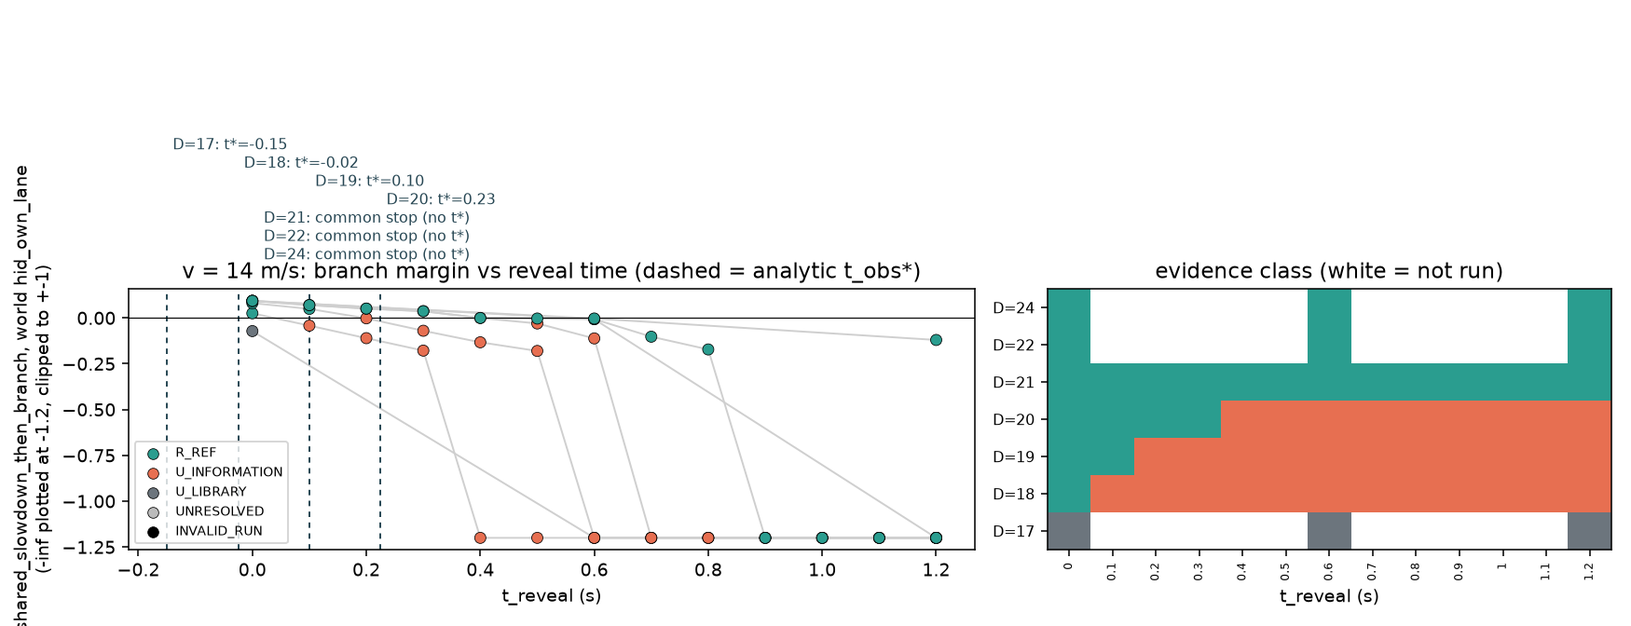
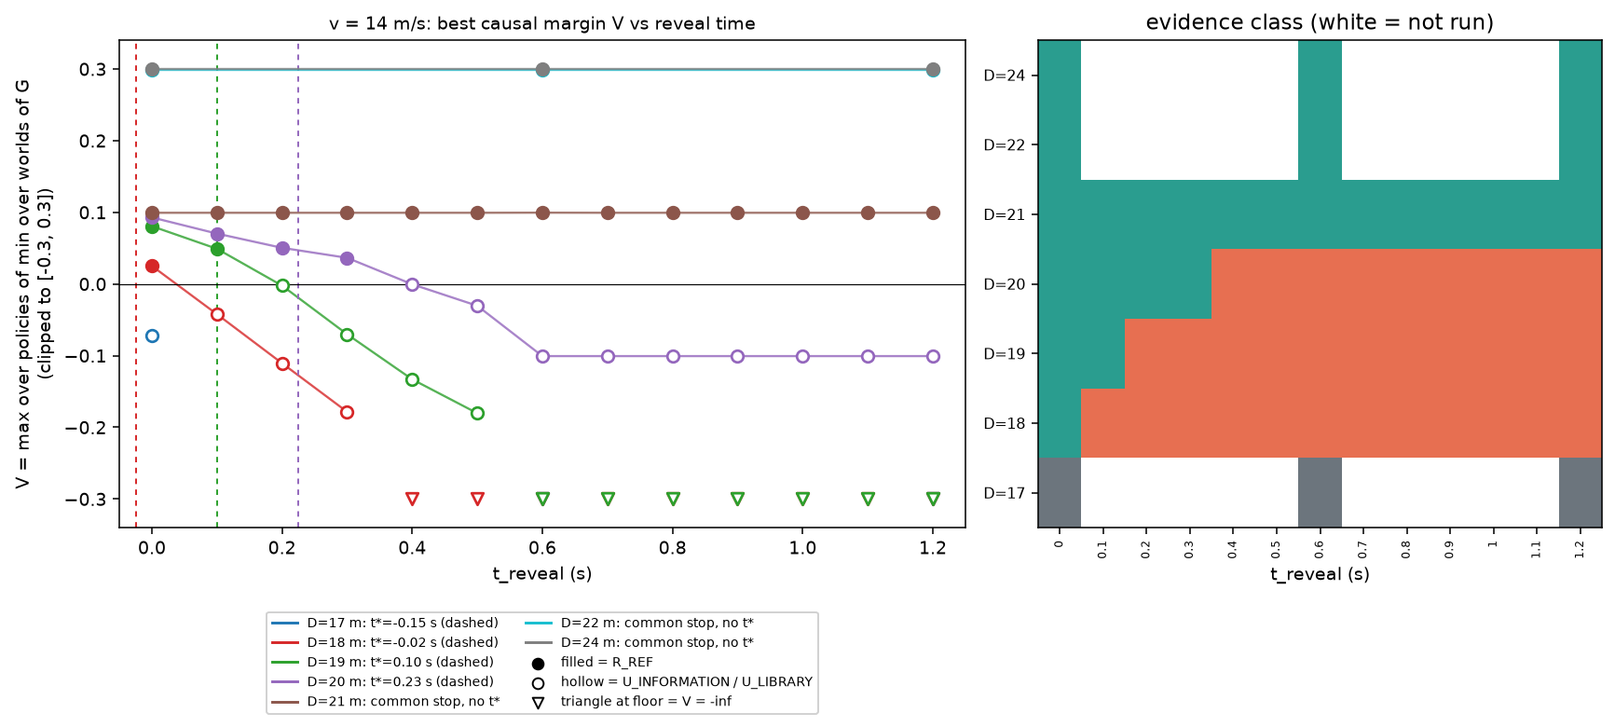
Task 7 fix round 1: aligned sweep tables, redrawn transition figure, history-check threshold, cross-check and RC14 wording, tests

diff --git a/scripts/carla_occlusion.py b/scripts/carla_occlusion.py
@@ -47,6 +47,7 @@ CFG = M.DEFAULT_V2
 TAU = 0.25
 B_CAL, TAU_EFF = CC.B_CAL, CC.TAU_EFF
 TOL_S = 0.25
+DV_TOL = 1e-6          # m/s: pre-reveal ego-speed difference between the two worlds that still counts as the same history
 TAG = "al8lc2"
 SCOPE = "carla_finite_replay"
 gval, fm, mw = CC.gval, CCP.fm, CCP.mw
@@ -88,6 +89,16 @@ def analytic_threshold(D, v, b=B_CAL, tau=TAU_EFF, lc_time=OC.LC_TIME, continuou
     if D >= stop_distance(v, b, tau):
         return None
     return IT.t_obs_star(D, v, tau, b, t_lat(lc_time), p=None if continuous else (v - V_FLOOR) / b)
+
+
+def best_value(r):
+    """V = max over policies of (min over worlds of G) from a record dict (-inf allowed; None entries make that policy unresolved and are skipped)."""
+    vals = []
+    for row in mw(r).values():
+        if any(g is None for g in row):
+            continue
+        vals.append(min(row))
+    return max(vals) if vals else -math.inf
 
 
 def own_world_G(r, policy="shared_slowdown_then_branch"):
@@ -143,8 +154,8 @@ class SpyPolicy(P.BrakeHold):
 
 
 def history_check(factory, theta, t_reveal):
-    """Run the SAME policy in both worlds and compare what it was handed: Obs equal field by field except the ego speed (CARLA is not bit
-    reproducible), objs / lane_w / t_capture / ego_hl exactly equal before the reveal; separated at the reveal."""
+    """Run the SAME policy in both worlds and compare what it was handed before the reveal: objs / lane_w / t_capture / t_available / ego_hl
+    exactly equal; the ego speed is compared separately against DV_TOL (pass/fail); separated at the reveal."""
     ws = OC.worlds(t_reveal, theta)
     hs = []
     for w in ws:
@@ -158,11 +169,12 @@ def history_check(factory, theta, t_reveal):
     n = min(len(hs[0]), len(hs[1]))
     pre = [i for i in range(n) if hs[0][i][0] < t_reveal - 1e-9]
     same = all(hs[0][i][1][-1].objs == hs[1][i][1][-1].objs == [] and hs[0][i][1][-1].lane_w == hs[1][i][1][-1].lane_w
-               and hs[0][i][1][-1].t_capture == hs[1][i][1][-1].t_capture and hs[0][i][1][-1].ego_hl == hs[1][i][1][-1].ego_hl for i in pre)
+               and hs[0][i][1][-1].t_capture == hs[1][i][1][-1].t_capture and hs[0][i][1][-1].t_available == hs[1][i][1][-1].t_available
+               and hs[0][i][1][-1].ego_hl == hs[1][i][1][-1].ego_hl for i in pre)
     dv = max(abs(hs[0][i][1][-1].v - hs[1][i][1][-1].v) for i in pre)
     k = [i for i in range(n) if abs(hs[0][i][0] - t_reveal) < 1e-9][0]
     ob = [hs[j][k][1][-1].objs for j in (0, 1)]
-    return {"n_pre": len(pre), "identical_objs_etc": same, "max_dv_pre": dv, "objs_at_reveal": ob,
+    return {"n_pre": len(pre), "identical_objs_etc": same, "max_dv_pre": dv, "dv_ok": bool(dv < DV_TOL), "objs_at_reveal": ob,
             "separated": ob[0] != ob[1] and len(ob[0]) == len(ob[1]) == 1}
 
 
@@ -266,27 +278,34 @@ def figure(sweeps, path):
     matplotlib.use("Agg")
     import matplotlib.pyplot as plt
     ks = [k for k in sorted(sweeps) if k[0] == 14.0]
-    fig, (a, b) = plt.subplots(1, 2, figsize=(12.5, 4.8), gridspec_kw={"width_ratios": [1.5, 1]})
+    fig, (a, b) = plt.subplots(1, 2, figsize=(12.5, 5.8), gridspec_kw={"width_ratios": [1.5, 1]})
     cmap = {"R_REF": "#2a9d8f", "U_INFORMATION": "#e76f51", "U_LIBRARY": "#6c757d", "UNRESOLVED": "#bbbbbb", "INVALID_RUN": "k"}
-    for i, k in enumerate(ks):
+    Dcol = {k: c for k, c in zip(ks, ["#1f77b4", "#d62728", "#2ca02c", "#9467bd", "#8c564b", "#17becf", "#7f7f7f"])}
+    lo, hi = -0.3, 0.3
+    for k in ks:
         recs = sweeps[k]
         ts = sorted(recs)
-        y = [(-1.2 if gval(own_world_G(recs[t])) in (None, -math.inf) else max(-1.0, min(1.0, gval(own_world_G(recs[t]))))) for t in ts]
-        a.plot(ts, y, "-", color="#cfcfcf", lw=1, zorder=1)
-        a.scatter(ts, y, c=[cmap[recs[t]["evidence_class"]] for t in ts], s=38, zorder=3, edgecolor="k", linewidth=0.4)
+        V = [best_value(recs[t]) for t in ts]
+        fin = [(t, max(lo, min(hi, v))) for t, v in zip(ts, V) if v != -math.inf]
+        inf_t = [t for t, v in zip(ts, V) if v == -math.inf]
+        a.plot([t for t, _ in fin], [y for _, y in fin], "-", color=Dcol[k], lw=1.2, alpha=0.8)
+        for t, v in zip(ts, V):
+            ok = recs[t]["evidence_class"] == "R_REF"
+            a.scatter([t], [lo if v == -math.inf else max(lo, min(hi, v))], marker="v" if v == -math.inf else "o", s=42, zorder=3,
+                      facecolor=Dcol[k] if ok else "white", edgecolor=Dcol[k], linewidth=1.4)
         ts_star = analytic_threshold(k[1], k[0])
-        if ts_star is not None:
-            a.axvline(ts_star, color="#264653", ls=(0, (3, 3)), lw=1)
-            a.text(ts_star + 0.01, 0.92 - 0.1 * i, f"D={k[1]:g}: t*={ts_star:.2f}", fontsize=8, color="#264653")
-        else:
-            a.text(0.02, 0.92 - 0.1 * i, f"D={k[1]:g}: common stop (no t*)", fontsize=8, color="#264653")
+        a.axvline(ts_star if ts_star is not None else np.nan, color=Dcol[k], ls=(0, (3, 3)), lw=1)
+        a.plot([], [], color=Dcol[k], lw=1.5, label=f"D={k[1]:g} m: " + (f"t*={ts_star:.2f} s (dashed)" if ts_star is not None else "common stop, no t*"))
     a.axhline(0, color="k", lw=0.6)
+    a.set_ylim(lo - 0.04, hi + 0.04)
     a.set_xlabel("t_reveal (s)")
-    a.set_ylabel("G of shared_slowdown_then_branch, world hid_own_lane\n(-inf plotted at -1.2, clipped to +-1)")
-    a.set_title("v = 14 m/s: branch margin vs reveal time (dashed = analytic t_obs*)")
-    for e, c in cmap.items():
-        a.scatter([], [], c=c, edgecolor="k", linewidth=0.4, label=e)
-    a.legend(fontsize=7, loc="lower left")
+    a.set_ylabel("V = max over policies of min over worlds of G\n(clipped to [-0.3, 0.3])")
+    a.set_title("v = 14 m/s: best causal margin V vs reveal time", fontsize=10)
+    a.scatter([], [], marker="o", facecolor="k", edgecolor="k", label="filled = R_REF")
+    a.scatter([], [], marker="o", facecolor="white", edgecolor="k", label="hollow = U_INFORMATION / U_LIBRARY")
+    a.scatter([], [], marker="v", facecolor="white", edgecolor="k", label="triangle at floor = V = -inf")
+    a.set_xlim(-0.05, 1.25)
+    a.legend(fontsize=7, loc="upper center", bbox_to_anchor=(0.5, -0.16), ncol=2, framealpha=0.9)
     ds = [k for k in ks]
     allt = sorted({t for k in ks for t in sweeps[k]})
     img = np.full((len(ds), len(allt)), np.nan)
@@ -303,11 +322,44 @@ def figure(sweeps, path):
     b.set_xlabel("t_reveal (s)")
     b.set_title("evidence class (white = not run)")
     fig.tight_layout()
-    fig.savefig(path, dpi=140)
+    fig.savefig(path, dpi=140, bbox_inches="tight")
     plt.close(fig)
 
 
 # ----------------------------------------------------------------------------- report
+def sweep_table(ks, sweeps, times):
+    """Markdown lines of one sweep table; every row has exactly as many cells as the header."""
+    hdr = ["D"] + [f"{t:g}" for t in times] + ["measured bracket", "analytic t* (policy as run)", "analytic t* (sup over prefixes)", "midpoint - t*", "within 0.25 s"]
+    out = ["| " + " | ".join(hdr) + " |", "|" + "---|" * len(hdr)]
+    for k in ks:
+        tr = transition(sweeps[k])
+        ts = analytic_threshold(k[1], k[0])
+        tsup = analytic_threshold(k[1], k[0], continuous=True)
+        cc = crosscheck(tr, ts)
+        cells = [code(sweeps[k][t]) if t in sweeps[k] else "" for t in times]
+        row = [f"{k[1]:g}"] + cells + [str(tr) if tr else "-", "none (common stop)" if ts is None else f"{ts:.3f}", "-" if tsup is None else f"{tsup:.3f}",
+                                       "-" if cc["diff"] is None else f"{cc['diff']:+.3f}", str(cc["ok"]) if cc["ok"] is not None else cc["note"]]
+        out.append("| " + " | ".join(row) + " |")
+    return out
+
+
+def crosscheck_stats(sweeps, keys):
+    """Differences (midpoint - t*) of the scenes with a bracket and a finite t*, and how many have t* strictly before the bracket's lower edge."""
+    rows = []
+    for k in keys:
+        tr, ts = transition(sweeps[k]), analytic_threshold(k[1], k[0])
+        if tr and ts is not None:
+            rows.append((k, 0.5 * (tr[0] + tr[1]) - ts, ts < tr[0]))
+    return rows
+
+
+def blind_spread(sweeps, k):
+    """Range of the blind fixed_left policy's own-world G over the reveal sweep (it ignores observations, so this is run-to-run spread)."""
+    g = [gval(mw(r)["fixed_left"][1]) for r in sweeps[k].values()]
+    g = [x for x in g if x is not None and x != -math.inf]
+    return (min(g), max(g)) if g else None
+
+
 def code(r):
     return {"R_REF": "R", "U_INFORMATION": "I", "U_LIBRARY": "L", "UNRESOLVED": "?", "INVALID_RUN": "X"}.get(r["evidence_class"], "?")
 
@@ -342,17 +394,23 @@ def report(ctx, sweeps, rc14, aud, hist, fig_path):
     w("**info_tree reconciliation.** `reference/info_tree.py` has two LATERAL corridors that both need T_lat. On the two-lane site the right corridor is the ego's own lane and needs no lateral move, so the matrix is "
       "`build_matrix_two_lane` (added): world A/hid_left_lane has stop/stay/observe succeed (+1) and blind_L fail; world B/hid_own_lane has the same lateral slack expression as before. "
       "The binding constraint is the lateral world, so the analytic threshold is unchanged and is also given in closed form, `t_obs_star = t_arr_max - tau - T_lat` (t_arr_max = arrival time under continuous braking, since the branch keeps braking). "
-      "The mock test checks the closed form against both discrete trees.\n")
+      "The mock test checks the closed form against both discrete trees. "
+      f"`p = (v - {V_FLOOR:g})/b` is the braking-prefix duration of the policy as run: it brakes until the ego speed is below {V_FLOOR:g} m/s and then holds that speed. Reason: stopping (or nearly stopping) in the middle of the steered "
+      "lane change leaves residual yaw (the lane_follow terminal test fails) and the time-parametrised quintic tracker overshoots the road edge at low speed, so the change is completed at >= 8 m/s. "
+      "The sweep tables therefore give two analytic columns: the policy as run, and the supremum over prefixes (continuous braking). The latter is '-' for D = 20 at v = 14: v tau_eff + v^2/(2 b_cal) = 19.98 m < 20 m, so under continuous braking the ego "
+      "stops just short of the plane, inside the 1 m reserve; the arrival time is infinite and no finite supremum exists. That is a stop that violates the reserve, not a valid common stop (the common-stop boundary is D >= 20.98 m)."
+      "\n")
     lt = t_lat()
     w(f"**Analytic anchors.** b_cal = {B_CAL} m/s^2, tau_eff = {TAU_EFF} s (0.25 s configured, quantised to 5 ticks, + 0.05 s onset), T_lat = {lt:.3f} s (quintic, lc_time {OC.LC_TIME:g}, to a lateral displacement of "
-      f"{OC.EGO_HW + OC.HID_HW + CFG.reserve_m:.1f} m = hw_ego + hw_hid + reserve of the 3.5 m lane width). Cross-check tolerance {TOL_S} s was declared in the script header.\n")
+      f"{OC.EGO_HW + OC.HID_HW + CFG.reserve_m:.1f} m = hw_ego + hw_hid + reserve of the 3.5 m lane width). tau_plan = 0 and a time reserve of 0 are used in t_obs* (the 1 m spatial reserve is folded into the 2.9 m lateral criterion; the reveal is delivered on the same tick). "
+      f"The {TOL_S} s cross-check tolerance is declared in this script's header docstring; commit history cannot verify that it was set before the run, and the reader should take that as stated, not proven.\n")
     w("**Plant caveats.** `hid` is static and re-placed from the measured ego bumper, so the declared gap D is exact; the ego starts on its declared speed (measured t0 speeds are in the audit traces below). "
       "No moving non-ego actor exists in these scenes, so the warm-up speed shortfall of moving actors (3-5 % low) does not apply. CARLA's brake model locks the wheels at the end of a stop (see Task 6); it only affects a_comb, which is not used here. "
       "The branch policy's braking is the calibrated decel target 6.19 m/s^2 (b_cal 6.211).\n")
     # ---- observation contract
     w("## Observation contract on CARLA\n")
     w(f"Same policy (`spy`, full brake) in both worlds, D = {hist['D']:g}, v = {hist['v']:g}, t_reveal = {hist['t']:g}: {hist['n_pre']} pre-reveal frames per world; objs / lane_w / t_capture / ego_hl identical in all of them "
-      f"and objs empty: **{hist['identical_objs_etc']}**; max |ego speed difference| between the worlds before the reveal {hist['max_dv_pre']:.4f} m/s (CARLA is not bit-reproducible, and the ego trajectory is identical only up to that); "
+      f"and objs empty: **{hist['identical_objs_etc']}**; t_available also compared; max |ego speed difference| between the worlds before the reveal {hist['max_dv_pre']:.2e} m/s, threshold {DV_TOL:g}: **{'PASS' if hist['dv_ok'] else 'FAIL'}**; "
       f"at the reveal tick the delivered objects are {hist['objs_at_reveal'][0]} (hid_left_lane) vs {hist['objs_at_reveal'][1]} (hid_own_lane): separated {hist['separated']}. "
       "The mock unit tests assert the same with exact equality of the whole Obs sequence and run the leakage check (no id / name / colour / blueprint / world name / absolute coordinate of the hidden vehicle in policy inputs before the reveal).\n")
     # ---- sweep tables
@@ -362,16 +420,20 @@ def report(ctx, sweeps, rc14, aud, hist, fig_path):
         ks = [k for k in sorted(sweeps) if k[0] == v]
         times = sorted({t for k in ks for t in sweeps[k]})
         w(f"v = {v:g} m/s, D_stop+c (analytic, b_cal, tau_eff) = {v * TAU_EFF + v * v / (2 * B_CAL) + CFG.reserve_m:.2f} m\n")
-        w("| D | " + " | ".join(f"{t:g}" for t in times) + " | measured bracket | analytic t_obs* | midpoint - t* | within 0.25 s |\n|---|" + "---|" * (len(times) + 4))
-        for k in ks:
-            tr = transition(sweeps[k])
-            ts = analytic_threshold(k[1], k[0])
-            cc = crosscheck(tr, ts)
-            cells = [code(sweeps[k][t]) if t in sweeps[k] else "" for t in times]
-            tsup = analytic_threshold(k[1], k[0], continuous=True)
-            w(f"| {k[1]:g} | " + " | ".join(cells) + f" | {tr if tr else '-'} | {'none (common stop)' if ts is None else f'{ts:.3f}'} | {'-' if tsup is None else f'{tsup:.3f}'} | "
-              f"{'-' if cc['diff'] is None else f'{cc['diff']:+.3f}'} | {cc['ok'] if cc['ok'] is not None else cc['note']} |")
+        L.extend(sweep_table(ks, sweeps, times))
         w("")
+    rows_ = crosscheck_stats(sweeps, sorted(sweeps))
+    if rows_:
+        ds_ = [d for _, d, _ in rows_]
+        w(f"**Cross-check reading.** All {len(ds_)} bracket midpoints differ from the policy-matched analytic t* by {', '.join(f'{d:+.3f}' for d in ds_)} s: "
+          f"{'all positive' if all(d > 0 for d in ds_) else 'mixed sign'}, mean {sum(ds_) / len(ds_):+.3f} s, max {max(ds_):+.3f} s.  In {sum(e for _, _, e in rows_)} of {len(rows_)} the analytic value lies strictly before the bracket's lower edge "
+          "(i.e. earlier than the last R_REF reveal), so the analytic value is a conservative one-sided bound with a bias of about one to two reveal-grid steps, not a close match.  The bias comes from the criterion: it demands 2.9 m of lateral displacement at the plane, "
+          "but the audited run clears the hidden vehicle with G >= 0 at 2.36 m of displacement (box-corner geometry; the corner distance, not the centre offset, sets the clearance).\n")
+    sp_ = {f"v{k[0]:g} D{k[1]:g}": blind_spread(sweeps, k) for k in sorted(sweeps) if len(sweeps[k]) > 3}
+    w("**Run-to-run spread.** `fixed_left` ignores observations, so its own-world G should not depend on the reveal time; its range over the sweep (min, max) is "
+      + "; ".join(f"{n}: ({a:.3f}, {b:.3f})" for n, r in sp_.items() if r for a, b in [r]) + ". "
+      "The brackets therefore carry about one reveal-grid step (0.1 s, 0.2 s at v = 18) of noise in addition to the 0.1 s resolution.\n")
+    w("**Note on case ids.** The records carry case_id RC10 for t_reveal <= 0.5 s and RC11 otherwise (assigned by reveal time before the run). It is a bookkeeping name, not a verdict: the evidence class is the label.\n")
     w("Full margins (G, `hid_left_lane/hid_own_lane`) per record:\n")
     w("| v | D | t_reveal | evidence | margins |\n|---|---|---|---|---|")
     for k in sorted(sweeps):
@@ -399,13 +461,13 @@ def report(ctx, sweeps, rc14, aud, hist, fig_path):
     # ---- RC14
     w("## RC14: current-view aliasing resolved by past observations\n")
     w(f"Scene v {RC14_SCENE[0]:g}, D {RC14_SCENE[1]:g}. Both worlds show `hid` from t = 0 and occlude it again from `t_forget`; they differ only in where it was seen (left lane vs own lane). "
-      "After `t_forget` the delivered current frame is identical (no objects); the earlier frames differ, and so do the margin profiles. Library adds `branch_current_frame_only` (decides from the current frame alone, forgets the vehicle when it is occluded). "
+      "After `t_forget` the delivered current frame is identical (no objects) while the earlier frames differ. `t_forget` is the sweep parameter (the time since the last observation at decision time t is t - t_forget; there is no separate field). Library adds `branch_current_frame_only` (decides from the current frame alone, forgets the vehicle when it is occluded). "
       "G cells read `seen_left_then_occluded/seen_own_then_occluded`.\n")
-    w("| t_forget | evidence | margins | profiles differ | memory policy G >= eps in both | current-frame-only policy refuted |\n|---|---|---|---|---|---|")
+    w("| t_forget | evidence | margins | memory policy G >= eps in both worlds | current-frame-only policy refuted in one world |\n|---|---|---|---|---|")
     for tf, r in sorted(rc14.items()):
         m = mw(r)
         cols = [[m[p][j] for p in r["policies"]] for j in (0, 1)]
-        w(f"| {tf:g} | {r['evidence_class']} | {CCP.mrows(r)} | {cols[0] != cols[1]} | {CCP.all_ok(m['shared_slowdown_then_branch'])} | {CCP.any_bad(m['branch_current_frame_only'])} |")
+        w(f"| {tf:g} | {r['evidence_class']} | {CCP.mrows(r)} | {CCP.all_ok(m['shared_slowdown_then_branch'])} | {CCP.any_bad(m['branch_current_frame_only'])} |")
     w("")
     # ---- audits
     w("## Audited transition traces\n")

diff --git a/tests/test_sim_occlusion.py b/tests/test_sim_occlusion.py
@@ -198,3 +198,44 @@ def test_rc14_history_conditioned_profiles_differ_and_memory_is_needed():
     assert col(0) != col(1)                                                 # different profiles for the same current frame
     assert all(g >= CFG.eps for g in r["shared_slowdown_then_branch"]) and rec.evidence_class == "R_REF"
     assert min(r["branch_current_frame_only"]) < CFG.eps                    # the current-frame-only policy forgets the vehicle and fails
+
+
+# ----------------------------------------------------------------------------- report helpers (fix round 1)
+def _fake(ev, g_own):
+    pol = ["stop_in_place", "fixed_left", "fixed_right", "shared_slowdown_then_branch"]
+    inf = "-inf"
+    return {"evidence_class": ev, "policies": pol,
+            "R_raw": [[0.1, inf], [inf, 0.09], [0.1, inf], [0.1, g_own]]}
+
+
+def _fake_sweeps():
+    sw = {}
+    for D, cut in ((18.0, 1), (19.0, 2), (21.0, 99)):
+        sw[(14.0, D)] = {round(0.1 * i, 2): (_fake("R_REF", 0.05) if i < cut else _fake("U_INFORMATION", "-inf")) for i in range(6)}
+    return sw
+
+
+def test_sweep_table_columns_align_with_header():
+    sw = _fake_sweeps()
+    times = sorted(sw[(14.0, 18.0)])
+    lines = CO.sweep_table(sorted(sw), sw, times)
+    n = lines[0].count("|")
+    assert all(l.count("|") == n for l in lines)                       # header, separator and every row have the same number of cells
+    assert "analytic t* (sup over prefixes)" in lines[0] and "analytic t* (policy as run)" in lines[0]
+    d21 = [l for l in lines if l.startswith("| 21 ")][0]
+    assert "none (common stop)" in d21
+
+
+def test_transition_figure_renders_and_crosscheck_stats(tmp_path):
+    sw = _fake_sweeps()
+    out = str(tmp_path / "f.png")
+    CO.figure(sw, out)
+    assert os.path.getsize(out) > 5000
+    assert abs(CO.best_value(_fake("R_REF", 0.05)) - 0.05) < 1e-9 and CO.best_value(_fake("U_INFORMATION", "-inf")) == -float("inf")
+    rows = CO.crosscheck_stats(sw, sorted(sw))
+    assert [k[1] for k, _, _ in rows] == [18.0, 19.0]                  # D=21 has no finite analytic t*
+    assert CO.blind_spread(sw, (14.0, 18.0)) == (0.09, 0.09)
+
+
+def test_history_check_threshold_constant():
+    assert 0 < CO.DV_TOL <= 1e-5

diff --git a/tests/test_reference.py b/tests/test_reference.py
@@ -82,3 +82,11 @@ def test_info_tree_reveal_threshold_is_analytic():
 def test_info_tree_physically_impossible_is_not_information_infeasible():
     assert T.label_scene(10.0, 0.0)["evidence"] == U_LIBRARY               # no world has a witness
     assert T.label_scene(40.0, 5.0)["evidence"] == R_REF                   # a common stop succeeds regardless of reveal time
+
+
+def test_t_obs_star_prefix_argument_and_common_stop():
+    D, v, tau, b, T_LAT = 19.0, 14.0, 0.3, 6.211, 1.3875
+    t_sup = T.t_obs_star(D, v, tau, b, T_LAT)
+    t_p = T.t_obs_star(D, v, tau, b, T_LAT, p=(v - 8.0) / b)
+    assert t_p < t_sup                                     # a shorter prefix arrives earlier, so the gate closes earlier
+    assert T.t_obs_star(20.0, v, tau, b, T_LAT) is None      # braking reaches a stop before the plane: no finite supremum

diff --git a/mining/cases/occlusion.py b/mining/cases/occlusion.py
@@ -68,7 +68,7 @@ def library(lc_time=LC_TIME):
 
 
 def rc14_worlds(t_forget, theta):
-    """Both hid placements are SEEN from t = 0 and occluded again from t_forget on (time_since_last_observation = t - t_forget)."""
+    """Both hid placements are SEEN from t = 0 and occluded again from t_forget on (t_forget is the sweep parameter; the time since the last observation at decision time t is t - t_forget, there is no separate field)."""
     kw = {"reveal": {HID: 0.0}, "forget": {HID: t_forget}}
     return [{"name": "seen_left_then_occluded", "actors": {}, "spawn": _spawn(theta, LEFT_LAT), **kw},
             {"name": "seen_own_then_occluded", "actors": {}, "spawn": _spawn(theta, OWN_LAT), **kw}]

diff --git a/mining/results/carla/occlusion.md b/mining/results/carla/occlusion.md
@@ -4,15 +4,15 @@ Physics profile `pp_381b4c6e55`, decel target 6.19, eps = 0.0, reserve c = 1.0 m
 
 **Site and mapping.** The custom 2-lane straight (`straight_2lane`, no map change). One STOPPED hidden vehicle `hid` is D m ahead of the ego (bumper gap) in exactly one of the two escape corridors: the ego's own lane (lat 0, the RIGHT lane; corridor = keep lane / stop in lane = info_tree `fixed_right`, world 'blocks RIGHT') or the adjacent LEFT lane (lat -3.5; corridor = change lane = `fixed_left`, world 'blocks LEFT'). Worlds: `hid_left_lane` (staying or stopping is safe; a left change collides) and `hid_own_lane` (only a braking left change works; D < stopping distance so stopping cannot). The vehicle is spawned in CARLA in both worlds (ground truth, static, exact placement), but the ObservationFeed withholds it until `t_reveal`; there is no CARLA occluder. Library: `stop_in_place` (full brake, hold), `fixed_left` (brake and change left at once), `fixed_right` (keep lane at speed), `shared_slowdown_then_branch` (full brake in lane until the object is delivered; then own lane -> change left while still braking, left lane -> keep lane braking; the branch is latched from the delivered history). G cells read `hid_left_lane/hid_own_lane`.
 
-**info_tree reconciliation.** `reference/info_tree.py` has two LATERAL corridors that both need T_lat. On the two-lane site the right corridor is the ego's own lane and needs no lateral move, so the matrix is `build_matrix_two_lane` (added): world A/hid_left_lane has stop/stay/observe succeed (+1) and blind_L fail; world B/hid_own_lane has the same lateral slack expression as before. The binding constraint is the lateral world, so the analytic threshold is unchanged and is also given in closed form, `t_obs_star = t_arr_max - tau - T_lat` (t_arr_max = arrival time under continuous braking, since the branch keeps braking). The mock test checks the closed form against both discrete trees.
+**info_tree reconciliation.** `reference/info_tree.py` has two LATERAL corridors that both need T_lat. On the two-lane site the right corridor is the ego's own lane and needs no lateral move, so the matrix is `build_matrix_two_lane` (added): world A/hid_left_lane has stop/stay/observe succeed (+1) and blind_L fail; world B/hid_own_lane has the same lateral slack expression as before. The binding constraint is the lateral world, so the analytic threshold is unchanged and is also given in closed form, `t_obs_star = t_arr_max - tau - T_lat` (t_arr_max = arrival time under continuous braking, since the branch keeps braking). The mock test checks the closed form against both discrete trees. `p = (v - 8)/b` is the braking-prefix duration of the policy as run: it brakes until the ego speed is below 8 m/s and then holds that speed. Reason: stopping (or nearly stopping) in the middle of the steered lane change leaves residual yaw (the lane_follow terminal test fails) and the time-parametrised quintic tracker overshoots the road edge at low speed, so the change is completed at >= 8 m/s. The sweep tables therefore give two analytic columns: the policy as run, and the supremum over prefixes (continuous braking). The latter is '-' for D = 20 at v = 14: v tau_eff + v^2/(2 b_cal) = 19.98 m < 20 m, so under continuous braking the ego stops just short of the plane, inside the 1 m reserve; the arrival time is infinite and no finite supremum exists. That is a stop that violates the reserve, not a valid common stop (the common-stop boundary is D >= 20.98 m).
 
-**Analytic anchors.** b_cal = 6.211 m/s^2, tau_eff = 0.3 s (0.25 s configured, quantised to 5 ticks, + 0.05 s onset), T_lat = 1.388 s (quintic, lc_time 2, to a lateral displacement of 2.9 m = hw_ego + hw_hid + reserve of the 3.5 m lane width). Cross-check tolerance 0.25 s was declared in the script header.
+**Analytic anchors.** b_cal = 6.211 m/s^2, tau_eff = 0.3 s (0.25 s configured, quantised to 5 ticks, + 0.05 s onset), T_lat = 1.388 s (quintic, lc_time 2, to a lateral displacement of 2.9 m = hw_ego + hw_hid + reserve of the 3.5 m lane width). tau_plan = 0 and a time reserve of 0 are used in t_obs* (the 1 m spatial reserve is folded into the 2.9 m lateral criterion; the reveal is delivered on the same tick). The 0.25 s cross-check tolerance is declared in this script's header docstring; commit history cannot verify that it was set before the run, and the reader should take that as stated, not proven.
 
 **Plant caveats.** `hid` is static and re-placed from the measured ego bumper, so the declared gap D is exact; the ego starts on its declared speed (measured t0 speeds are in the audit traces below). No moving non-ego actor exists in these scenes, so the warm-up speed shortfall of moving actors (3-5 % low) does not apply. CARLA's brake model locks the wheels at the end of a stop (see Task 6); it only affects a_comb, which is not used here. The branch policy's braking is the calibrated decel target 6.19 m/s^2 (b_cal 6.211).
 
 ## Observation contract on CARLA
 
-Same policy (`spy`, full brake) in both worlds, D = 19, v = 14, t_reveal = 0.6: 12 pre-reveal frames per world; objs / lane_w / t_capture / ego_hl identical in all of them and objs empty: **True**; max |ego speed difference| between the worlds before the reveal 0.0000 m/s (CARLA is not bit-reproducible, and the ego trajectory is identical only up to that); at the reveal tick the delivered objects are [{'dx': 15.06390380859375, 'dlat': -3.49965763092041, 'dv': -12.439548928543635, 'hl': 1.852684736251831, 'hw': 0.8943392634391785}] (hid_left_lane) vs [{'dx': 15.06390380859375, 'dlat': 0.00034236907958984375, 'dv': -12.439548928543635, 'hl': 1.852684736251831, 'hw': 0.8943392634391785}] (hid_own_lane): separated True. The mock unit tests assert the same with exact equality of the whole Obs sequence and run the leakage check (no id / name / colour / blueprint / world name / absolute coordinate of the hidden vehicle in policy inputs before the reveal).
+Same policy (`spy`, full brake) in both worlds, D = 19, v = 14, t_reveal = 0.6: 12 pre-reveal frames per world; objs / lane_w / t_capture / ego_hl identical in all of them and objs empty: **True**; t_available also compared; max |ego speed difference| between the worlds before the reveal 0.00e+00 m/s, threshold 1e-06: **PASS**; at the reveal tick the delivered objects are [{'dx': 15.06390380859375, 'dlat': -3.49965763092041, 'dv': -12.439548928543635, 'hl': 1.852684736251831, 'hw': 0.8943392634391785}] (hid_left_lane) vs [{'dx': 15.06390380859375, 'dlat': 0.00034236907958984375, 'dv': -12.439548928543635, 'hl': 1.852684736251831, 'hw': 0.8943392634391785}] (hid_own_lane): separated True. The mock unit tests assert the same with exact equality of the whole Obs sequence and run the leakage check (no id / name / colour / blueprint / world name / absolute coordinate of the hidden vehicle in policy inputs before the reveal).
 
 ## Reveal-time sweep (RC10 -> RC11)
 
@@ -20,8 +20,8 @@ Evidence class per reveal time (R = R_REF, I = U_INFORMATION, L = U_LIBRARY, ? =
 
 v = 14 m/s, D_stop+c (analytic, b_cal, tau_eff) = 20.98 m
 
-| D | 0 | 0.1 | 0.2 | 0.3 | 0.4 | 0.5 | 0.6 | 0.7 | 0.8 | 0.9 | 1 | 1.1 | 1.2 | measured bracket | analytic t_obs* | midpoint - t* | within 0.25 s |
-|---|---|---|---|---|---|---|---|---|---|---|---|---|---|---|---|---|---|
+| D | 0 | 0.1 | 0.2 | 0.3 | 0.4 | 0.5 | 0.6 | 0.7 | 0.8 | 0.9 | 1 | 1.1 | 1.2 | measured bracket | analytic t* (policy as run) | analytic t* (sup over prefixes) | midpoint - t* | within 0.25 s |
+|---|---|---|---|---|---|---|---|---|---|---|---|---|---|---|---|---|---|---|
 | 17 | L |  |  |  |  |  | L |  |  |  |  |  | L | - | -0.150 | -0.113 | - | no transition inside the sweep |
 | 18 | R | I | I | I | I | I | I | I | I | I | I | I | I | (0.0, 0.1) | -0.025 | 0.068 | +0.075 | True |
 | 19 | R | R | I | I | I | I | I | I | I | I | I | I | I | (0.1, 0.2) | 0.100 | 0.305 | +0.050 | True |
@@ -32,11 +32,17 @@ v = 14 m/s, D_stop+c (analytic, b_cal, tau_eff) = 20.98 m
 
 v = 18 m/s, D_stop+c (analytic, b_cal, tau_eff) = 32.48 m
 
-| D | 0 | 0.2 | 0.4 | 0.6 | 0.8 | 1 | 1.2 | measured bracket | analytic t_obs* | midpoint - t* | within 0.25 s |
-|---|---|---|---|---|---|---|---|---|---|---|---|
+| D | 0 | 0.2 | 0.4 | 0.6 | 0.8 | 1 | 1.2 | measured bracket | analytic t* (policy as run) | analytic t* (sup over prefixes) | midpoint - t* | within 0.25 s |
+|---|---|---|---|---|---|---|---|---|---|---|---|---|
 | 26 | R | R | I | I | I | I | I | (0.2, 0.4) | 0.182 | 0.182 | +0.118 | True |
 | 28 | R | R | R | I | I | I | I | (0.4, 0.6) | 0.431 | 0.452 | +0.069 | True |
 | 30 | R | R | R | R | R | I | I | (0.8, 1.0) | 0.681 | 0.820 | +0.219 | True |
+
+**Cross-check reading.** All 6 bracket midpoints differ from the policy-matched analytic t* by +0.075, +0.050, +0.125, +0.118, +0.069, +0.219 s: all positive, mean +0.109 s, max +0.219 s.  In 4 of 6 the analytic value lies strictly before the bracket's lower edge (i.e. earlier than the last R_REF reveal), so the analytic value is a conservative one-sided bound with a bias of about one to two reveal-grid steps, not a close match.  The bias comes from the criterion: it demands 2.9 m of lateral displacement at the plane, but the audited run clears the hidden vehicle with G >= 0 at 2.36 m of displacement (box-corner geometry; the corner distance, not the centre offset, sets the clearance).
+
+**Run-to-run spread.** `fixed_left` ignores observations, so its own-world G should not depend on the reveal time; its range over the sweep (min, max) is v14 D18: (0.025, 0.025); v14 D19: (0.081, 0.081); v14 D20: (0.065, 0.093); v14 D21: (0.086, 0.093); v18 D26: (0.092, 0.092); v18 D28: (0.135, 0.136); v18 D30: (0.143, 0.143). The brackets therefore carry about one reveal-grid step (0.1 s, 0.2 s at v = 18) of noise in addition to the 0.1 s resolution.
+
+**Note on case ids.** The records carry case_id RC10 for t_reveal <= 0.5 s and RC11 otherwise (assigned by reveal time before the run). It is a bookkeeping name, not a verdict: the evidence class is the label.
 
 Full margins (G, `hid_left_lane/hid_own_lane`) per record:
 
@@ -137,28 +143,28 @@ Full margins (G, `hid_left_lane/hid_own_lane`) per record:
 
 ## RC14: current-view aliasing resolved by past observations
 
-Scene v 14, D 19. Both worlds show `hid` from t = 0 and occlude it again from `t_forget`; they differ only in where it was seen (left lane vs own lane). After `t_forget` the delivered current frame is identical (no objects); the earlier frames differ, and so do the margin profiles. Library adds `branch_current_frame_only` (decides from the current frame alone, forgets the vehicle when it is occluded). G cells read `seen_left_then_occluded/seen_own_then_occluded`.
+Scene v 14, D 19. Both worlds show `hid` from t = 0 and occlude it again from `t_forget`; they differ only in where it was seen (left lane vs own lane). After `t_forget` the delivered current frame is identical (no objects) while the earlier frames differ. `t_forget` is the sweep parameter (the time since the last observation at decision time t is t - t_forget; there is no separate field). Library adds `branch_current_frame_only` (decides from the current frame alone, forgets the vehicle when it is occluded). G cells read `seen_left_then_occluded/seen_own_then_occluded`.
 
-| t_forget | evidence | margins | profiles differ | memory policy G >= eps in both | current-frame-only policy refuted |
-|---|---|---|---|---|---|
-| 0.3 | R_REF | stop_in_place=0.105/-inf; fixed_left=-inf/0.081; fixed_right=0.105/-inf; shared_slowdown_then_branch=0.105/0.081; branch_current_frame_only=0.105/-inf | True | True | True |
-| 0.6 | R_REF | stop_in_place=0.105/-inf; fixed_left=-inf/0.081; fixed_right=0.105/-inf; shared_slowdown_then_branch=0.105/0.081; branch_current_frame_only=0.105/-inf | True | True | True |
-| 1 | R_REF | stop_in_place=0.105/-inf; fixed_left=-inf/0.081; fixed_right=0.105/-inf; shared_slowdown_then_branch=0.105/0.081; branch_current_frame_only=0.105/-inf | True | True | True |
+| t_forget | evidence | margins | memory policy G >= eps in both worlds | current-frame-only policy refuted in one world |
+|---|---|---|---|---|
+| 0.3 | R_REF | stop_in_place=0.105/-inf; fixed_left=-inf/0.081; fixed_right=0.105/-inf; shared_slowdown_then_branch=0.105/0.081; branch_current_frame_only=0.105/-inf | True | True |
+| 0.6 | R_REF | stop_in_place=0.105/-inf; fixed_left=-inf/0.081; fixed_right=0.105/-inf; shared_slowdown_then_branch=0.105/0.081; branch_current_frame_only=0.105/-inf | True | True |
+| 1 | R_REF | stop_in_place=0.105/-inf; fixed_left=-inf/0.081; fixed_right=0.105/-inf; shared_slowdown_then_branch=0.105/0.081; branch_current_frame_only=0.105/-inf | True | True |
 
 ## Audited transition traces
 
 Scene v 14, D 19 (median of the fine-sweep scenes with a transition); the full library was re-run with a per-tick spy at the last R_REF reveal and the first non-R_REF reveal.
 
-**last_R_REF: t_reveal 0.1 s**, evidence R_REF, margins stop_in_place=0.105/-inf; fixed_left=-inf/0.081; fixed_right=0.105/-inf; shared_slowdown_then_branch=0.105/0.049; re-run vs scan max |dG| = 0.0.
+**last_R_REF: t_reveal 0.1 s**, evidence R_REF, margins stop_in_place=0.105/-inf; fixed_left=-inf/0.081; fixed_right=0.105/-inf; shared_slowdown_then_branch=0.105/0.049; re-run vs scan max |dG| = 0.0014052177709720642.
 
 - `branch_own`:
-    - run `shared_slowdown_then_branch/hid_own_lane`: termination horizon, contact events none, G (re-run) 0.049
-    - ego v 14.01 -> 6.72 m/s; lateral range [-3.84, -0.00] m, end -3.50; x_end 85.6; max per-tick lateral step 0.140 m = 0.443 x (v*dt) (continuous, no teleport)
+    - run `shared_slowdown_then_branch/hid_own_lane`: termination horizon, contact events none, G (re-run) 0.050
+    - ego v 14.01 -> 6.71 m/s; lateral range [-3.85, -0.00] m, end -3.50; x_end 85.5; max per-tick lateral step 0.140 m = 0.446 x (v*dt) (continuous, no teleport)
     - min clearance to each actor (m): {'hid': 1.25}
-    - dynamic peaks: {'a_lat': 4.521, 'a_long_smoothed': 6.303, 'a_comb': 7.399, 'a_comb_unmasked': 7.399, 'peak_times': {'a_long': {'t': 0.7, 'v': 11.802}, 'a_comb': {'t': 1.05, 'v': 9.676}, 'a_comb_unmasked': {'t': 1.05, 'v': 9.676}}, 'dyn_margin': {'a_lat': 0.435}}
+    - dynamic peaks: {'a_lat': 4.442, 'a_long_smoothed': 6.297, 'a_comb': 7.398, 'a_comb_unmasked': 7.398, 'peak_times': {'a_long': {'t': 0.65, 'v': 12.113}, 'a_comb': {'t': 1.05, 'v': 9.662}, 'a_comb_unmasked': {'t': 1.05, 'v': 9.662}}, 'dyn_margin': {'a_lat': 0.445}}
     - commands (decision_t -> effective_t): brake/None 0.00->0.25, brake/-3.5 0.10->0.35, keep/-3.5 1.35->1.60
-    - actor `hid`: v -0.00 -> 0.00, lat_end 0.00, closest |dx| to ego 0.1 m
-    - arrival at the hidden vehicle's rear plane: t 1.80 s, ego speed 6.11 m/s, lateral displacement 2.36 m (needed 2.9 m for the reserve), lateral distance to the vehicle centre 2.36 m
+    - actor `hid`: v -0.00 -> 0.00, lat_end 0.00, closest |dx| to ego 0.2 m
+    - arrival at the hidden vehicle's rear plane: t 1.80 s, ego speed 6.10 m/s, lateral displacement 2.36 m (needed 2.9 m for the reserve), lateral distance to the vehicle centre 2.36 m
 - `branch_left`:
     - run `shared_slowdown_then_branch/hid_left_lane`: termination horizon, contact events none, G (re-run) 0.105
     - ego v 14.01 -> -0.00 m/s; lateral range [-0.00, 0.00] m, end -0.00; x_end 17.0; max per-tick lateral step 0.000 m = 0.001 x (v*dt) (continuous, no teleport)
@@ -219,7 +225,7 @@ Scene v 14, D 19 (median of the fine-sweep scenes with a transition); the full l
     - actor `hid`: v -0.00 -> 0.26, lat_end 0.00, closest |dx| to ego 4.2 m
     - arrival at the hidden vehicle's rear plane: t 1.70 s, ego speed 6.11 m/s, lateral displacement 0.00 m (needed 2.9 m for the reserve), lateral distance to the vehicle centre 0.00 m
 
-Analytic arrival under continuous braking (b_cal, tau_eff): t 1.99 s at 3.49 m/s; measured for `shared_slowdown_then_branch` in `hid_own_lane` at the last R_REF reveal: t 1.80 s at 6.11 m/s.
+Analytic arrival under continuous braking (b_cal, tau_eff): t 1.99 s at 3.49 m/s; measured for `shared_slowdown_then_branch` in `hid_own_lane` at the last R_REF reveal: t 1.80 s at 6.10 m/s.
 
 ## Record validation
 
